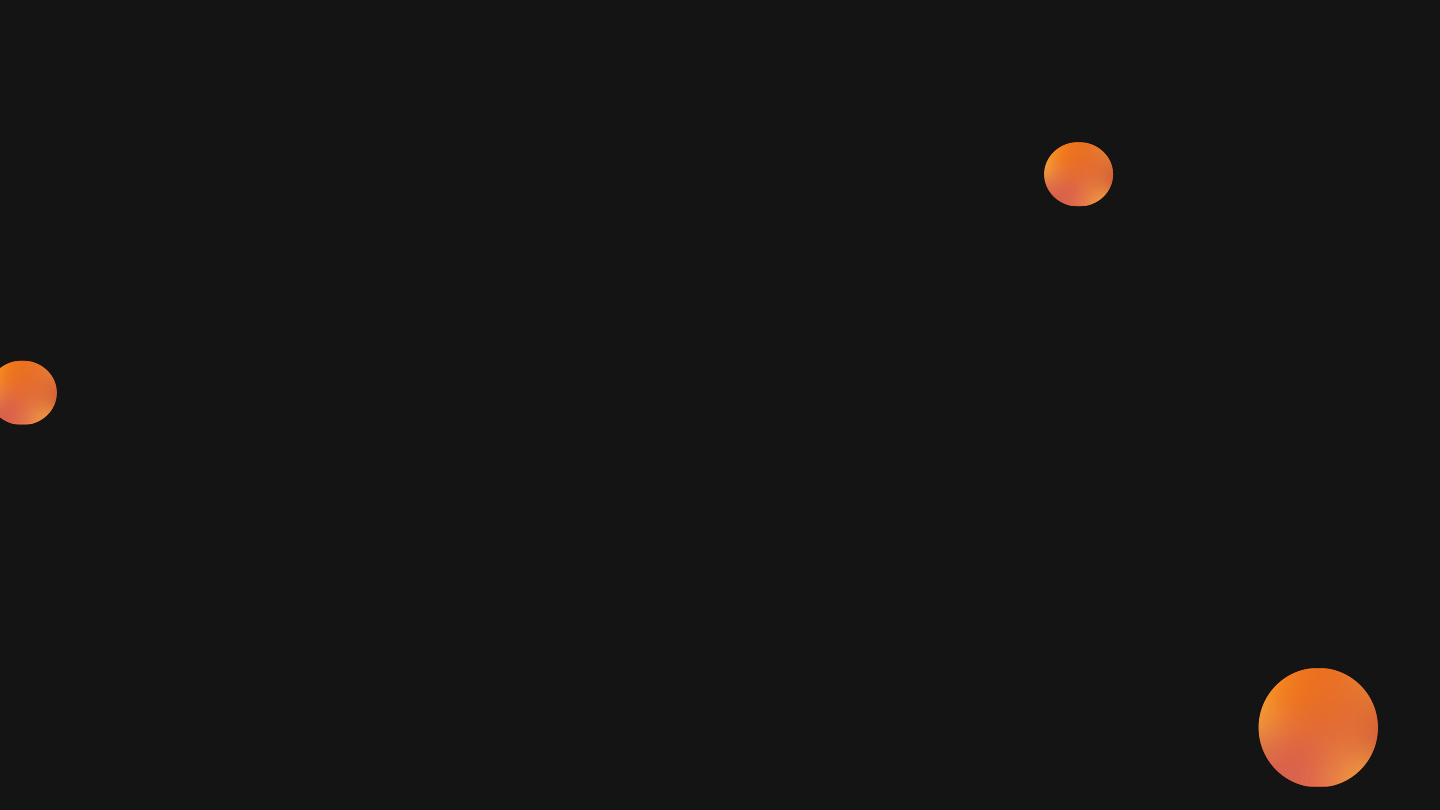
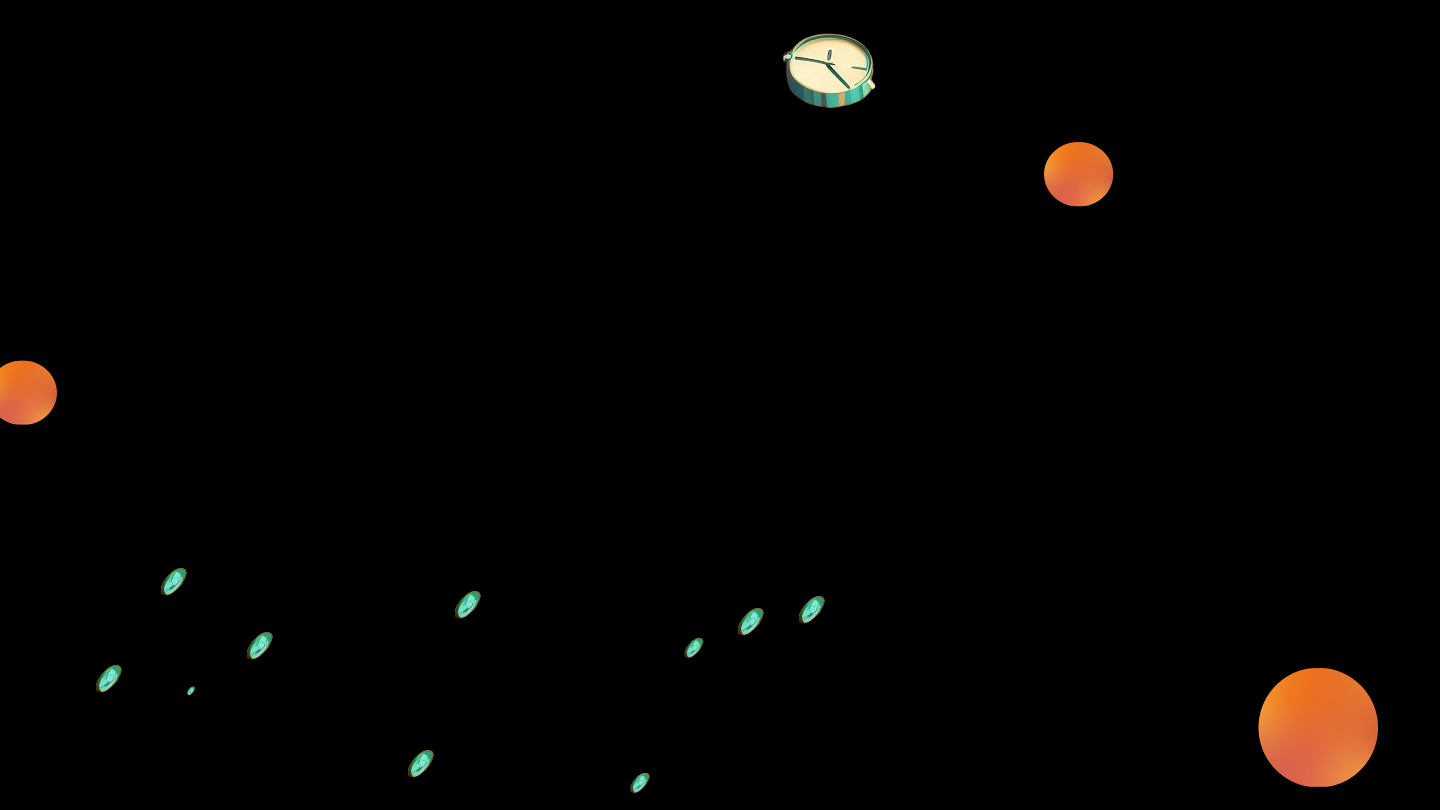
landing page changes, background color, fixed spacing on components, changed images bg color & more

diff --git a/pages/index.js b/pages/index.js
@@ -24,9 +24,11 @@ export default function Home() {
         }
     })
 
+
+
   return (
 <>
-                  <nav class="border-zinc-200 px-2 sm:px-4 py-2.5 rounded dark:bg-black-900">
+                  <nav class="border-zinc-200 px-2 sm:px-4 py-2.5 rounded bg-black">
                   <div class="container flex items-center justify-between mx-2 md:mx-auto">
                       <Link to="/cs" class="flex justify-center mx-12">
                           <div className="flex flexbox px-16 py-8 lg:mx-auto">
@@ -51,8 +53,7 @@ export default function Home() {
                       </div>
                   </div>
               </nav>
-
-              <main>
+              <main className="bg-black">
                   <div className="container bg-ocircles bg-cover mx-auto px-24 py-10 flex flexbox justify-center m-6 font-Poppins text-white text-s md:text-4xl lg:text-4xl h-[50rem]">
                       <div className="text-xs mx-4 flex-row ">
                           <div className="-space-y-2 lg:-space-y-8"> <div className="mx-6 font-extrabold justify-center  text-2xl md:text-xl lg:text-6xl transform transition duration-500 hover:scale-110">Experiential</div>
@@ -66,7 +67,7 @@ export default function Home() {
                               </span>
                           </button>
                       </div>
-                      <div className="object-contain flex flexbox flex-col -space-y-2 justify-center"><Image class="" src="/landing.png" width="1200" height="1000"></Image></div>
+                      <div className="object-contain flex flexbox flex-col -space-y-2 justify-center hover:scale-110"><Image class="" src="/landing.png" width="1200" height="1000"></Image></div>
                   </div>
 
                   <div className="container w-400px bg-white-100 pt-14">
@@ -89,7 +90,7 @@ export default function Home() {
                       </div>
                   </div>
 
-                 <div className="container grid place-items-center bg-circles bg-cover h-[60rem]">
+                  <div className="container grid place-items-center bg-circles bg-cover h-[60rem] transition opacity ease-out duration-500">
                   <div className="container pt-14 flex justify-center font-Poppins text-transparent text-xl md:text-2xl lg:text-3xl bg-clip-text bg-gradient-to-r from-yellow-600 to-orange-600" href="#URL">
                       <div class="grid place-items-center fade-in opacity-0 transition opacity ease-out duration-500">Work deserves to be</div>
                       </div>
@@ -135,9 +136,9 @@ export default function Home() {
                       </div>
                   </div>
                   </div>
-
-                  <div class="relative flex min-h-screen pt-20 flex-col items-center justify-center overflow-hidden bg-black z-0">
-                  <div class="relative flex w-full flex-1 scale-y-125 items-center justify-center isolate z-0">
+                  <div className="transform transition duration-500">
+                  <div class="relative flex min-h-screen pt-20 flex-col items-center justify-center overflow-hidden bg-black z-0 transform transition duration-500">
+                  <div class="relative flex w-full scale-y-135 items-center justify-center">
                       <div class="absolute inset-auto right-1/2 h-56 w-[30rem] bg-gradient-conic from-orange-500 via-black to-transparent text-white [--conic-position:from_70deg_at_center_top]"></div>
                       <div class="absolute inset-auto left-1/2 h-56 w-[30rem] bg-gradient-conic from-transparent via-black to-orange-500 text-white [--conic-position:from_290deg_at_center_top]"></div>
                       <div class="absolute top-1/2 h-48 w-full translate-y-12 scale-x-150 bg-black blur-2xl"></div>
@@ -150,7 +151,7 @@ export default function Home() {
                   </div>
 
                   <div class="relative z-50 flex flex-col items-center px-5">
-
+</div>
 
                       <div className="container flex -py-4 my-12 pt-34 justify-center font-semibold font-Poppins flexbox px-6 text-2xl md:text-4xl lg:text-5xl">
                       </div>
@@ -162,7 +163,7 @@ export default function Home() {
                                   <div className="mx-4 my-3 font-poppins text-orange-600 font-bold text-4xl flex justify-center">3</div>
                                   <div className="mx-10 my-2 flex justify-center">Cities</div>
                               </div>
-                              <div className="px-5 py-5 transform transition duration-500 hover:scale-110 pt-22">
+                              <div className="px-5 py-5 transform transition duration-500 hover:scale-110">
                                   <div className="mx-10 my-3 font-poppins text-orange-600 font-bold text-4xl flex justify-center">40+</div>
                                   <div className="mx-10 my-2 flex justify-center">Happy Hours</div>
                               </div>
@@ -201,25 +202,25 @@ export default function Home() {
                   </div>
 
 
-                  <div className="container flex justify-center font-semibold font-Poppins flexbox my-16 px-6 text-2xl md:text-3xl lg:text-5xl"><div class="">ITS FIVE O'CLOCK SOMEWHERE</div></div>
-                  <div className="flex flexbox justify-center fade-in opacity-0 transition opacity ease-out duration-500">
+                  <div className="container flex justify-center font-semibold font-Poppins flexbox my-16 px-6 text-2xl md:text-3xl lg:text-5xl transition opacity ease-out duration-500"><div class="">ITS FIVE O'CLOCK SOMEWHERE</div></div>
+                  <div className="flex flexbox justify-center transition opacity ease-out duration-500">
                       <Image src="/oclock.png" height="80" width="80" className="mx-9"></Image>
                       <Image src="/wclock.png" height="80" width="140"></Image>
                       <Image src="/wclock.png" height="80" width="140"></Image>
                       <Image src="/wclock.png" height="80" width="140"></Image>
                   </div>
-                  <div className="container flex flexbox justify-center space-between">
-                      <div className="">San Francisco</div>
-                      <div className="mx-5">New York</div>
-                      <div className="mx-5">Los Angeles</div>
-                      <div className="mx-5">Paris</div>
+                  <div className="container flex flexbox justify-center space-between mx-16 py-6 transition opacity ease-out duration-500">
+                      <div className="mx-8">San Francisco</div>
+                      <div className="mx-8">New York</div>
+                      <div className="mx-8 ">Los Angeles</div>
+                      <div className="mx-12">Paris</div>
                   </div>
 
                   <div id="cs" className="container flex pb-12 font-semibold font-Poppins flexbox my-16 px-6 text-2xl md:text-4xl lg:text-5xl fade-in opacity-0 transition opacity ease-out duration-500 fade-in opacity-0 transition opacity ease-out duration-500 justify-center"><div class="">AMPLIFY & INTEGRATE</div></div>
 
                   <div className="container justify-center flex pt-24 pb-24">
 
-                      <a href="#" class="container flex flexbox justify-center mx-6 items-center bg-black border border-white rounded-3xl shadow md:flex-row md:max-w-xl hover:bg-black dark:border-gray-700 transform transition duration-500 hover:scale-110">
+                      <a href="#" class="container flex flexbox justify-center mx-6 items-center bg-black border border-white rounded-3xl shadow md:flex-row md:max-w-xl hover:bg-black dark:border-gray-700 transition opacity ease-out duration-500 hover:scale-110">
                       <img class="object-cover w-full rounded-t-lg h-96 md:h-auto md:w-48 md:rounded-none md:rounded-l-lg" src="/party2.png" ></img>
                       <div class="flex flex-col justify-center p-4 leading-normal">
                           <h5 class="mb-2 text-2xl font-bold tracking-tight text-gray-900 dark:text-white">Premier</h5>
@@ -237,11 +238,11 @@ export default function Home() {
               </main>
 
 
-<footer class="container bg-blue dark:bg-zinc-900 fade-in opacity-0 transition opacity ease-out duration-500">
+<footer class="container bg-black fade-in opacity-0 transition opacity ease-out duration-500">
 
 
-                  <div class="px-4 py-6 bg-zinc-100 dark:bg-zinc-700 md:flex md:items-center md:justify-between">
-                      <span class="text-sm text-zinc-500 dark:text-zinc-300 sm:text-center">© 2023 <a href="https://flowbite.com/">Five O'Clock Club 2023™</a>. All Rights Reserved. - Designed & Built by 0xChampi of attn.studios & attn.labs
+                  <div class="px-4 py-6 bg-black md:flex md:items-center md:justify-between">
+                      <span class="text-sm text-zinc-500 dark:text-zinc-300 sm:text-center">© 2023 <a href="https://flowbite.com/">Five O'Clock Club 2023™</a>. All Rights Reserved. - Designed & Built by Max Gold & 0xChampi of attn.studios & attn.labs
                       </span>
                       <div class="flex mt-4 space-x-6 sm:justify-center md:mt-0">
                           <a href="#" class="text-zinc-400 hover:text-zinc-900 dark:hover:text-white">

diff --git a/styles/globals.css b/styles/globals.css
@@ -91,7 +91,7 @@ body {
 
 body {
     color: rgb(255,255,255);
-  background: rgb(20, 20, 20)
+  background: rgb(0, 0, 0)
 
 }
 
